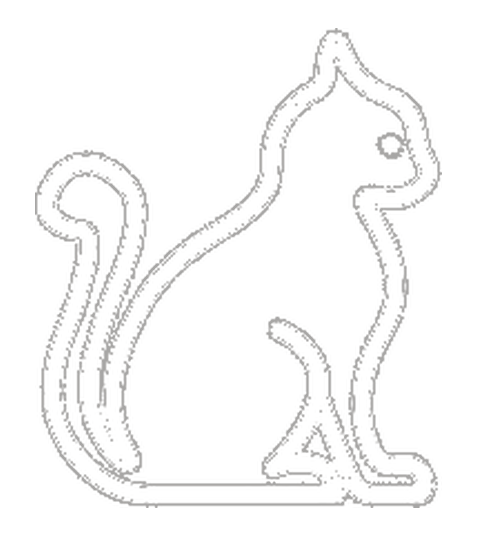
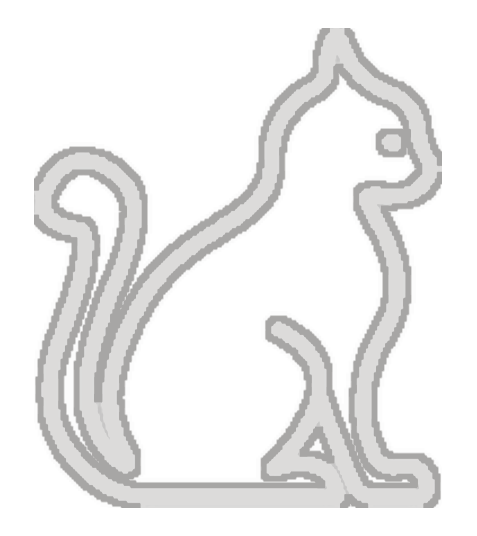
fix: valida URL directa de imagen y ajusta gato generico

Changed region(s): [[0.0587, 0.0299, 0.9392, 0.9552]]

diff --git a/frontend/src/app/app.ts b/frontend/src/app/app.ts
@@ -14,6 +14,7 @@ interface PetProfile {
   size: string;
   description: string;
   image: string;
+  fallback: string;
   imageAlt: string;
 }
 
@@ -41,6 +42,7 @@ export class App implements OnInit {
       size: 'Mediano',
       description: 'Un compañero alegre que disfruta los paseos y las buenas siestas.',
       image: 'https://images.unsplash.com/photo-1552053831-71594a27632d?auto=format&fit=crop&w=900&q=85',
+      fallback: 'assets/mascotas/mascota-generica-1.png',
       imageAlt: 'Perro color miel sentado en un jardín'
     },
     {
@@ -50,6 +52,7 @@ export class App implements OnInit {
       size: 'Pequeña',
       description: 'Curiosa, dulce y experta en encontrar el rincón más soleado de la casa.',
       image: 'https://images.unsplash.com/photo-1573865526739-10659fec78a5?auto=format&fit=crop&w=900&q=85',
+      fallback: 'assets/mascotas/gato-generico.png',
       imageAlt: 'Gata atigrada mirando a cámara'
     },
     {
@@ -59,6 +62,7 @@ export class App implements OnInit {
       size: 'Mediana',
       description: 'Serena y compañera, espera una familia para compartir sus caminatas.',
       image: 'https://images.unsplash.com/photo-1543466835-00a7907e9de1?auto=format&fit=crop&w=900&q=85',
+      fallback: 'assets/mascotas/mascota-generica-1.png',
       imageAlt: 'Perro mestizo de orejas caídas en el parque'
     }
   ]);
@@ -109,6 +113,7 @@ export class App implements OnInit {
 
   private mapearMascota(m: Mascota): PetProfile {
     const meses = m.edad_aproximada_meses ?? 0;
+    const generica = this.imagenGenerica(m.especie);
     const anios = Math.floor(meses / 12);
     const resto = meses % 12;
     const edad = anios
@@ -122,7 +127,8 @@ export class App implements OnInit {
       species: m.especie,
       size: m.tamaño,
       description: m.historia || 'Conocé más sobre este compañero escribiéndonos.',
-      image: m.imagen_display || this.imagenGenerica(m.especie),
+      image: m.imagen_display || generica,
+      fallback: generica,
       imageAlt: `${m.nombre}, ${m.especie.toLowerCase()} en adopción`,
     };
   }
@@ -134,6 +140,13 @@ export class App implements OnInit {
       Otro: 'assets/mascotas/mascota-generica-2.png',
     };
     return imagenes[especie] ?? imagenes.Otro;
+  }
+
+  usarFallback(pet: PetProfile): void {
+    if (pet.image === pet.fallback) return;
+    this.pets.update((lista) =>
+      lista.map((item) => (item === pet ? { ...item, image: item.fallback } : item)),
+    );
   }
 
   toggleMenu(): void {

diff --git a/frontend/src/app/modules/admin/pages/mascotas/mascotas-admin.component.ts b/frontend/src/app/modules/admin/pages/mascotas/mascotas-admin.component.ts
@@ -158,9 +158,10 @@ interface FormularioMascota {
               <input id="ingreso" name="ingreso" class="adm-input" type="date" [(ngModel)]="formulario.fecha_ingreso" />
             </div>
             <div class="adm-field completo">
-              <label for="url">URL de imagen externa (Drive / Cloudinary)</label>
-              <input id="url" name="url" class="adm-input" type="url" placeholder="https://…"
+              <label for="url">URL directa de la imagen (.jpg, .png, .webp…)</label>
+              <input id="url" name="url" class="adm-input" type="url" placeholder="https://…/vaca.jpg"
                 [(ngModel)]="formulario.imagen_url" />
+              <span style="color:#667975; font-size:11px">No pegues la URL de una página: copiá la dirección de la imagen.</span>
             </div>
             <div class="adm-field completo">
               <label for="archivo">O subir una foto desde tu equipo</label>

diff --git a/frontend/src/app/home.html b/frontend/src/app/home.html
@@ -92,7 +92,7 @@
       @for (pet of filteredPets(); track pet.id ?? pet.name) {
         <article class="pet-card">
           <div class="pet-image-wrap">
-            <img [src]="pet.image" [alt]="pet.imageAlt" loading="lazy" />
+            <img [src]="pet.image" [alt]="pet.imageAlt" loading="lazy" (error)="usarFallback(pet)" />
             <span class="availability"><span></span> Disponible</span>
             <button type="button" class="favorite-button" [attr.aria-label]="'Guardar a ' + pet.name" (click)="toggleFavorite(pet.name)" [class.is-favorite]="favorites().includes(pet.name)">
               <svg viewBox="0 0 24 24" aria-hidden="true"><path d="M20.8 8.8c0 4.5-8.8 10-8.8 10s-8.8-5.5-8.8-10a4.8 4.8 0 0 1 8.8-2.7 4.8 4.8 0 0 1 8.8 2.7Z"/></svg>

diff --git a/backend/adopciones/imagenes.py b/backend/adopciones/imagenes.py
@@ -1,0 +1,68 @@
+"""Utilidades para aceptar solo URLs que realmente apuntan a una imagen."""
+
+from urllib.error import URLError
+from urllib.parse import urlparse
+from urllib.request import Request, urlopen
+
+from django.core.exceptions import ValidationError
+
+EXTENSIONES_IMAGEN = (
+    ".jpg",
+    ".jpeg",
+    ".png",
+    ".gif",
+    ".webp",
+    ".avif",
+    ".svg",
+    ".bmp",
+)
+
+HOSTS_IMAGEN = (
+    "img.magnific.com",
+    "images.unsplash.com",
+    "res.cloudinary.com",
+    "drive.google.com",
+    "lh3.googleusercontent.com",
+    "firebasestorage.googleapis.com",
+    "raw.githubusercontent.com",
+)
+
+MENSAJE_URL_INVALIDA = (
+    "La URL debe apuntar directamente a una imagen, no a una página web. "
+    "Entrá a la foto, clic derecho y elegí “Copiar dirección de imagen”. "
+    "Ejemplo: https://img.magnific.com/vector-gratis/vaca_96037-417.jpg"
+)
+
+
+def validar_url_imagen(valor):
+    """Acepta URLs de imagen y rechaza páginas HTML con mensaje claro."""
+    if not valor:
+        return valor
+
+    parsed = urlparse(valor)
+    if parsed.scheme not in ("http", "https") or not parsed.netloc:
+        raise ValidationError(MENSAJE_URL_INVALIDA)
+
+    ruta = parsed.path.lower()
+    if ruta.endswith(EXTENSIONES_IMAGEN):
+        return valor
+    if any(host in parsed.netloc.lower() for host in HOSTS_IMAGEN):
+        return valor
+
+    headers = {
+        "User-Agent": (
+            "Mozilla/5.0 (Windows NT 10.0; Win64; x64) "
+            "AppleWebKit/537.36 (KHTML, like Gecko) Chrome/131.0.0.0 Safari/537.36"
+        ),
+        "Accept": "image/avif,image/webp,image/apng,image/*,*/*;q=0.8",
+    }
+
+    try:
+        peticion = Request(valor, headers=headers, method="HEAD")
+        with urlopen(peticion, timeout=5) as respuesta:
+            if respuesta.headers.get_content_type().startswith("image/"):
+                return valor
+    except (OSError, URLError, ValueError):
+        pass
+
+    raise ValidationError(MENSAJE_URL_INVALIDA)

diff --git a/backend/adopciones/tests.py b/backend/adopciones/tests.py
@@ -1,4 +1,5 @@
 from datetime import date, timedelta
+from unittest.mock import MagicMock, patch
 
 from django.contrib.auth import get_user_model
 from django.core.exceptions import ValidationError
@@ -6,6 +7,7 @@ from django.test import TestCase
 from django.utils import timezone
 from rest_framework.test import APIClient
 
+from .imagenes import validar_url_imagen
 from .models import (
     EstadoAdopcion,
     HistorialMedico,
@@ -234,3 +236,19 @@ class BajasTests(TestCase):
         self.assertEqual(purgar_bajas_vencidas(), 1)
         self.assertFalse(MascotaRescatada.objects.filter(pk=self.mascota.pk).exists())
         self.assertFalse(HistorialMedico.objects.exists())
+
+
+class UrlImagenTests(TestCase):
+    def test_acepta_url_directa_de_imagen(self):
+        url = "https://img.magnific.com/vector-gratis/vaca_96037-417.jpg"
+        self.assertEqual(validar_url_imagen(url), url)
+
+    def test_rechaza_url_de_pagina_web(self):
+        respuesta = MagicMock()
+        respuesta.__enter__.return_value.headers.get_content_type.return_value = "text/html"
+        with patch("adopciones.imagenes.urlopen", return_value=respuesta):
+            with self.assertRaises(ValidationError) as error:
+                validar_url_imagen(
+                    "https://www.magnific.com/es/fotos-vectores-gratis/vaca-animada"
+                )
+        self.assertIn("página web", str(error.exception))

diff --git a/backend/adopciones/serializers.py b/backend/adopciones/serializers.py
@@ -1,6 +1,7 @@
 from rest_framework import serializers
 from rest_framework.request import Request
 
+from .imagenes import validar_url_imagen
 from .models import (
     EstadoAdopcion,
     HistorialMedico,
@@ -56,6 +57,10 @@ class MascotaRescatadaSerializer(serializers.ModelSerializer):
                 return request.build_absolute_uri(imagen)
             return f"http://127.0.0.1:8000{imagen}"
         return imagen
+
+    def validate_imagen_url(self, valor):
+        """Evita guardar páginas web como si fueran fotos."""
+        return validar_url_imagen(valor)
 
     def validate(self, attrs):
         """En Bajas solo se permite cambiar el estado; el resto queda intacto."""

diff --git a/README.md b/README.md
@@ -132,6 +132,7 @@ Panel en **`http://localhost:4200/admin`**. La landing pública sigue en `http:/
 - La landing pública toma las mascotas `Disponible` desde la API y muestra **máximo 20 fichas**; si hay más, invita a ingresar para ver el catálogo completo.
 - Si una mascota no tiene imagen cargada, se usan los vectores grises semitransparentes de `frontend/public/assets/mascotas/` según su especie. La imagen del hero solo se usa en “Un hogar cambia una vida”.
 - En el alta/edición de mascotas se puede subir una foto real desde el equipo o usar una URL externa. El archivo se envía como `multipart/form-data` y se sirve desde `/media/`; la API devuelve la URL absoluta para que la imagen aparezca en el panel y en la landing. En producción, Cloudinary reemplaza al almacenamiento local.
+- La URL externa debe ser **directa a la imagen** (`.jpg`, `.png`, `.webp`, Cloudinary, Drive, etc.). El backend rechaza URLs de páginas web con un mensaje claro; en la landing, si una imagen externa falla, se usa el vector gris de la especie.
 - `http://localhost:4200/ingresar` muestra las opciones de adoptante (pendiente del módulo de Mario) y administrador (redirige al login del panel).
 - La barra lateral muestra los iconos y sus etiquetas; el login permite mostrar u ocultar la contraseña.
 - La URL de la API está en `frontend/src/app/core/services/api.service.ts` (`API_BASE_URL`); cámbiala por la de Render al desplegar.
